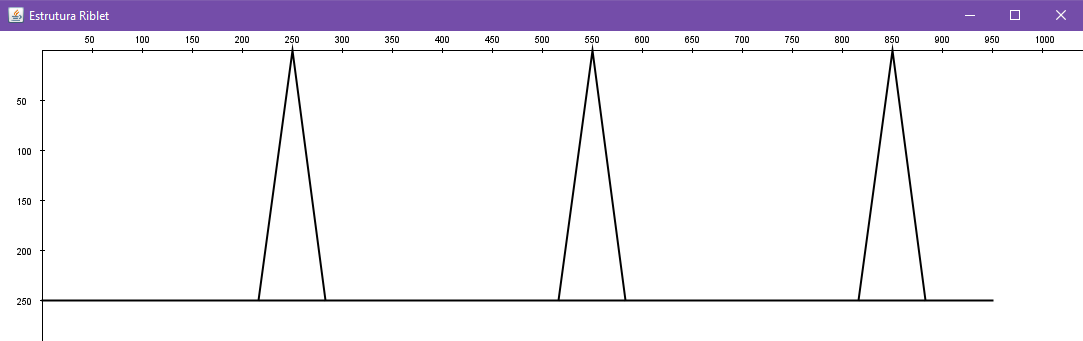
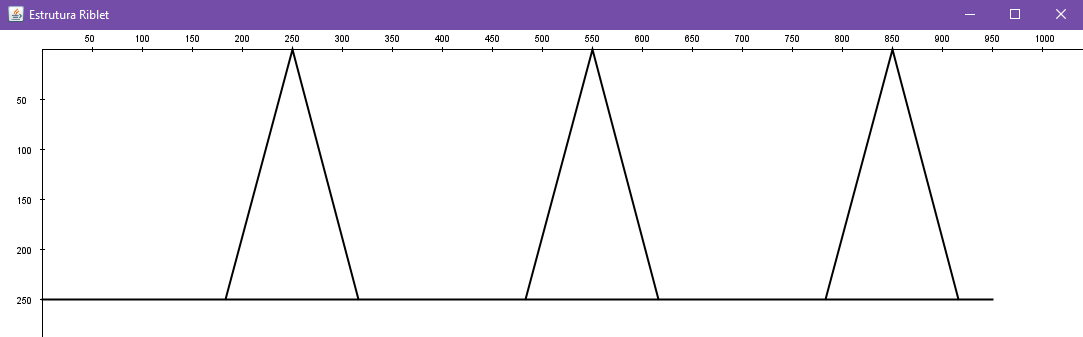
fix base

diff --git a/src/Riblet.java b/src/Riblet.java
@@ -33,7 +33,7 @@ public class Riblet extends Frame {
     this.distanceBetween = distanceBetween;
     this.distanceFirst = distanceFirst;
 
-    this.baseHalf = (Math.tan(Math.toRadians(angle/2)) * height) / 2;
+    this.baseHalf = (Math.tan(Math.toRadians(angle/2)) * height);
     
     this.frameSize = new TwoAxisCoordinate(this.sampleLength + 2*this.STEP, (int)height + 100);
     

diff --git a/README.md b/README.md
@@ -14,7 +14,7 @@ Marcos Renan Krul
 
 ![Exemplo 01](https://github.com/MarcosKrul/riblet/blob/master/tmp/images/example01.png)
 
-* Estrutura para: 1000, 300, 60, 250, 200
+* Estrutura para: 1000, 130, 90, 300, 200
 
 ![Exemplo 01](https://github.com/MarcosKrul/riblet/blob/master/tmp/images/example02.png)
 
